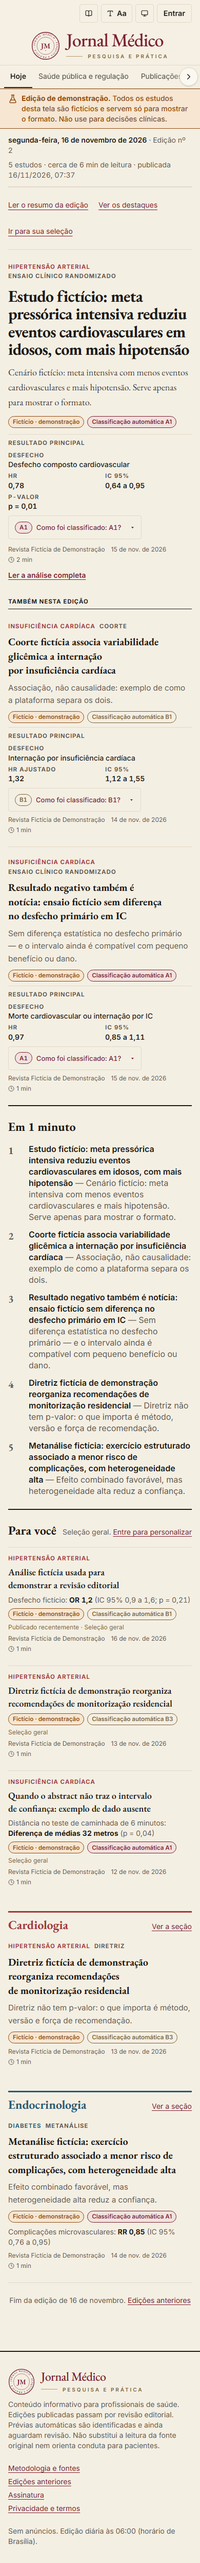
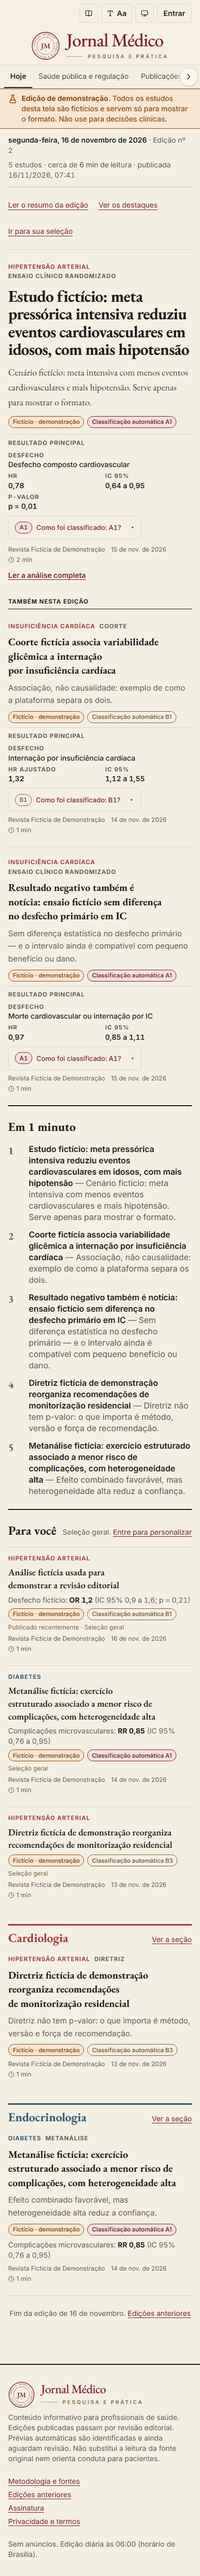
Capa: '30 estudos na capa · 34 novos nas últimas 36 h'

Changed region(s): [[0.0308, 0.0, 0.9538, 0.9966], [0.8308, 0.2491, 0.8923, 0.2803]]

diff --git a/apps/web/src/routes/Jornal.tsx b/apps/web/src/routes/Jornal.tsx
@@ -46,8 +46,8 @@ export default function Jornal() {
             <span className="text-muted"> · {e.isPreview ? 'Prévia automática (não é edição publicada)' : `Edição nº ${e.number}${e.version > 1 ? ` (versão ${e.version})` : ''}`}</span>
           </p>
           <p className="tnum m-0 text-muted">
-            {all.length} {all.length === 1 ? 'estudo' : 'estudos'}
-            {e.isPreview && e.freshCount !== undefined && <> ({e.freshCount} {e.freshCount === 1 ? 'novo' : 'novos'} nas últimas 36 h)</>} · cerca de {e.totalReadingMinutes} min de leitura
+            {all.length} {all.length === 1 ? 'estudo' : 'estudos'}{e.isPreview && ' na capa'}
+            {e.isPreview && e.freshCount !== undefined && <> · {e.freshCount} {e.freshCount === 1 ? 'novo' : 'novos'} nas últimas 36 h</>} · cerca de {e.totalReadingMinutes} min de leitura
             {e.publishedAt && <> · publicada {fmtDateTime(e.publishedAt)}</>}
           </p>
         </div>
